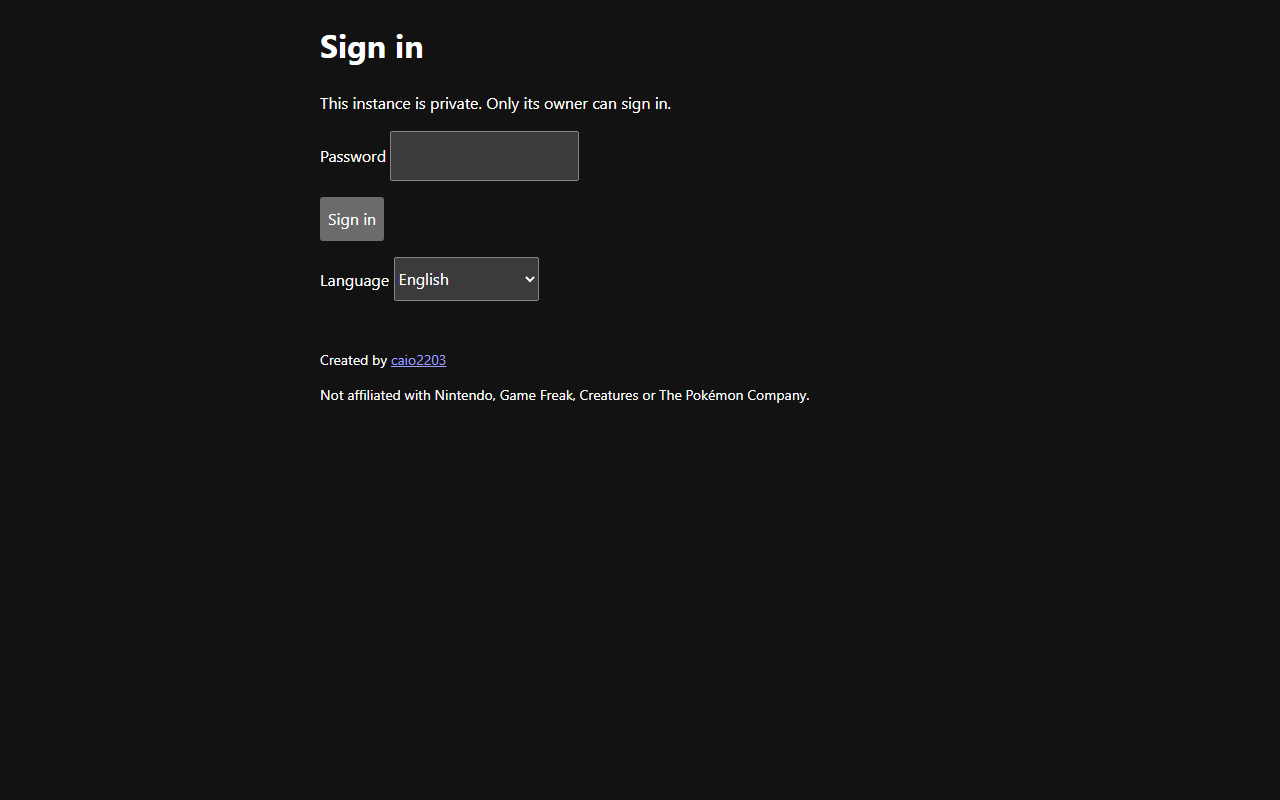
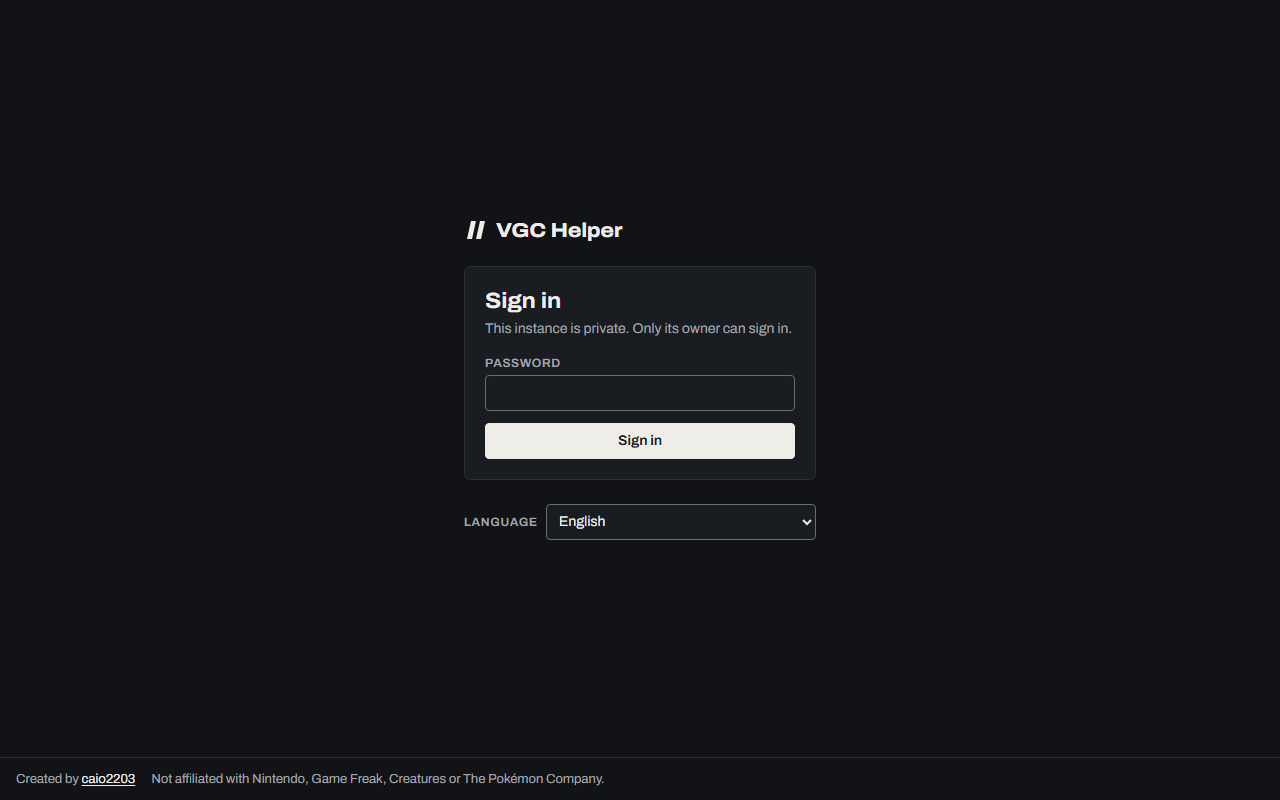
docs: replace the README screenshots with the builder, My teams, settings and login
The builder shot uses a pasted team with one legality error. Phones get viewport-sized
shots, so the bottom tab bar stays at the bottom. The old home images are gone.

diff --git a/apps/web/screenshots/readme.spec.ts b/apps/web/screenshots/readme.spec.ts
@@ -1,10 +1,11 @@
 import { fileURLToPath } from 'node:url';
-import { type Browser, devices, test } from '@playwright/test';
+import { type Browser, type BrowserContextOptions, devices, expect, test } from '@playwright/test';
 import { E2E_PASSWORD } from '../e2e/instance';
+import { pasteOnPage, TEAM_WITH_ERROR } from '../e2e/support';
 
 /**
- * README and docs images: every page × device × theme × language, named
- * `<page>-<device>-<theme>[-pt-BR].png`. Runs against the throwaway instance with demo data
+ * README and docs images: every screen × device × theme × language, named
+ * `<screen>-<device>-<theme>[-pt-BR].png`. Runs against the throwaway instance with demo data
  * only, never a real account or instance URL.
  */
 const OUT_DIR = fileURLToPath(new URL('../../../docs/images/', import.meta.url));
@@ -20,11 +21,44 @@ const LOCALES = [
   { locale: 'pt-BR', suffix: '-pt-BR' },
 ] as const;
 
+/** A second demo team for My teams. Only names and types show there. */
+const RAIN_TEAM = `Pelipper
+Ability: Drizzle
+- Hurricane
+- Weather Ball
+- Tailwind
+- Protect
+
+Archaludon
+- Electro Shot
+- Draco Meteor
+- Flash Cannon
+- Protect
+
+Sneasler
+- Fake Out
+- Dire Claw
+- Close Combat
+- Protect
+
+Kingambit
+- Kowtow Cleave
+- Sucker Punch
+- Swords Dance
+- Protect`;
+
 type Cookies = Awaited<ReturnType<Awaited<ReturnType<Browser['newContext']>>['cookies']>>;
+
+const BASE: BrowserContextOptions = {
+  timezoneId: 'UTC',
+  reducedMotion: 'reduce',
+  // The service worker would serve the app shell from its cache between shots; keep it out.
+  serviceWorkers: 'block',
+};
 
 /** Signs in once: the login is rate limited, so every shot reuses this session cookie. */
 async function signIn(browser: Browser): Promise<Cookies> {
-  const context = await browser.newContext();
+  const context = await browser.newContext({ ...BASE, locale: 'en-US' });
   const page = await context.newPage();
   await page.goto('/login');
   await page.locator('input[type="password"]').fill(E2E_PASSWORD);
@@ -35,40 +69,68 @@ async function signIn(browser: Browser): Promise<Cookies> {
   return cookies;
 }
 
+/** Saves the demo teams that My teams lists. */
+async function seedTeams(browser: Browser, cookies: Cookies): Promise<void> {
+  for (const [name, paste] of [
+    ['Rain', RAIN_TEAM],
+    ['Incineroar Garchomp', TEAM_WITH_ERROR],
+  ] as const) {
+    const context = await browser.newContext({ ...BASE, locale: 'en-US' });
+    await context.addCookies(cookies);
+    const page = await context.newPage();
+    await page.goto('/');
+    await expect(page.locator('#team-heading')).toContainText('0 / 6');
+    await pasteOnPage(page, paste);
+    await page.getByLabel('Team name').fill(name);
+    await page.getByRole('button', { name: 'Save', exact: true }).click();
+    await expect(page.getByText('All changes saved')).toBeVisible();
+    await context.close();
+  }
+}
+
 async function shoot(
   browser: Browser,
   options: { device: Device; theme: (typeof THEMES)[number]; locale: string; suffix: string },
   cookies: Cookies,
 ): Promise<void> {
   const { device, theme, locale, suffix } = options;
-  const contextOptions = {
-    ...DEVICES[device],
-    colorScheme: theme,
-    locale,
-    timezoneId: 'UTC',
-    reducedMotion: 'reduce' as const,
-  };
+  const contextOptions = { ...BASE, ...DEVICES[device], colorScheme: theme, locale };
   const path = (name: string) => `${OUT_DIR}${name}-${device}-${theme}${suffix}.png`;
 
   const signedOut = await browser.newContext(contextOptions);
   const login = await signedOut.newPage();
   await login.goto('/login');
   await login.locator('input[type="password"]').waitFor();
-  await login.screenshot({ path: path('login'), fullPage: true });
+  await login.evaluate(() => document.fonts.ready);
+  await login.screenshot({ path: path('login'), fullPage: device === 'desktop' });
   await signedOut.close();
 
   const signedIn = await browser.newContext(contextOptions);
   await signedIn.addCookies(cookies);
-  const home = await signedIn.newPage();
-  await home.goto('/');
-  await home.getByRole('heading', { level: 2 }).waitFor();
-  await home.screenshot({ path: path('home'), fullPage: true });
+  const page = await signedIn.newPage();
+
+  // The builder with one legality error: Incineroar cannot learn Knock Off.
+  await page.goto('/');
+  await expect(page.locator('#team-heading')).toContainText('0 / 6');
+  await pasteOnPage(page, TEAM_WITH_ERROR);
+  await expect(page.locator('#team-heading')).toContainText('2 / 6');
+  await page.evaluate(() => document.fonts.ready);
+  await page.screenshot({ path: path('builder'), fullPage: device === 'desktop' });
+
+  await page.goto('/teams');
+  await expect(page.getByRole('link', { name: 'Rain', exact: true })).toBeVisible();
+  await page.screenshot({ path: path('teams'), fullPage: device === 'desktop' });
+
+  await page.goto('/settings');
+  await page.getByRole('heading', { level: 1 }).waitFor();
+  await page.screenshot({ path: path('settings'), fullPage: device === 'desktop' });
   await signedIn.close();
 }
 
 test('README and docs screenshots', async ({ browser }) => {
-  test.setTimeout(120_000);
+  test.setTimeout(300_000);
   const cookies = await signIn(browser);
+  await seedTeams(browser, cookies);
   for (const device of Object.keys(DEVICES) as Device[]) {
     for (const theme of THEMES) {
       for (const { locale, suffix } of LOCALES) {
